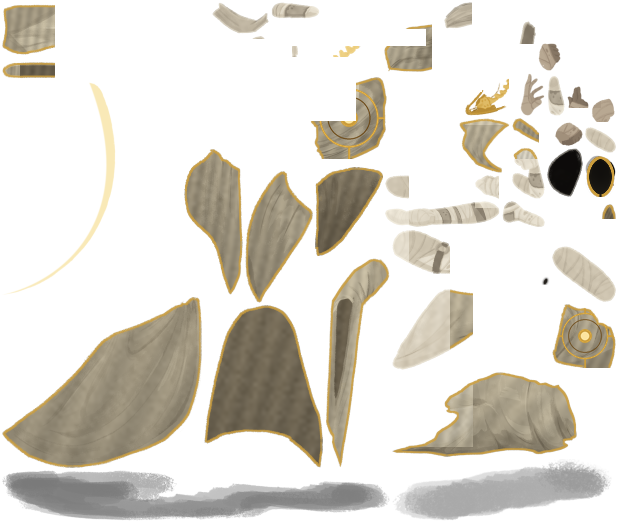
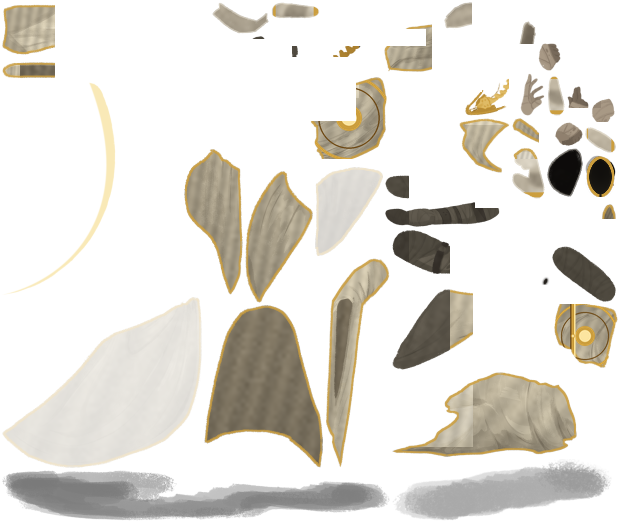
M9-A2.1 checkpoint: hood/robe refinement, attack cape and underrobe fixes (before A2.3 head prototype)

diff --git a/Tools/SilentReskin/build_believer_skin.py b/Tools/SilentReskin/build_believer_skin.py
@@ -64,33 +64,38 @@ CLOTH = {
 }
 HOOD_LINING = {"bottom hood"}
 WRAP = {
-    "back arm", "back arm 1", "back arm 2", "bottom foot", "bottom leg bottom", "bottom leg top",
-    "death_half_scale/death_bottom leg", "death_half_scale/death_neck",
-    "death_half_scale/death_top leg", "neck bottom", "neck top", "top arm", "top foot",
-    "top leg",
+    "back arm", "back arm 1", "back arm 2", "death_half_scale/death_neck",
+    "neck bottom", "neck top", "top arm",
 }
 SKIN = {"back hand", "back hand 2", "shiv_hand", "top hand", "top hand 2"}
 DARK = {"eye"}
 HIDE = {
     "bottom horn", "top horn", "death_half_scale/death_antlers", "hair", "hair top",
     "death_half_scale/death_hair", "skull", "death_half_scale/death_skull",
+    "top foot", "bottom foot",
 }
 HOOD_VOID = {"head"}
 GOLD = {"badge", "death_half_scale/death_spine sash"}
 HIDE_WEAPON = {
     "back dagger", "top dagger", "blade_shine", "blade_twirls", "shiv_blur",
 }
+UNDERROBE = {
+    "top leg", "bottom leg bottom", "bottom leg top",
+    "death_half_scale/death_bottom leg", "death_half_scale/death_top leg",
+}
+CUFF = {"top arm", "back arm", "back arm 1", "back arm 2"}
+ATTACK_CAPE = {"cape_front_attack", "cape_back_attack"}
 KEEP = {"shadow", "slash"}
 
-IVORY_DARK = np.array([0.36, 0.32, 0.25], np.float32)
-IVORY_MID = np.array([0.78, 0.74, 0.64], np.float32)
-IVORY_LIGHT = np.array([0.97, 0.95, 0.89], np.float32)
+IVORY_DARK = np.array([0.40, 0.36, 0.29], np.float32)
+IVORY_MID = np.array([0.84, 0.80, 0.70], np.float32)
+IVORY_LIGHT = np.array([1.00, 0.98, 0.93], np.float32)
 GOLD_DARK = np.array([0.42, 0.28, 0.08], np.float32)
 GOLD_MID = np.array([0.80, 0.62, 0.24], np.float32)
 GOLD_LIGHT = np.array([0.99, 0.90, 0.63], np.float32)
-SKIN_DARK = np.array([0.34, 0.29, 0.24], np.float32)
-SKIN_MID = np.array([0.62, 0.55, 0.47], np.float32)
-SKIN_LIGHT = np.array([0.80, 0.74, 0.65], np.float32)
+SKIN_DARK = np.array([0.30, 0.26, 0.22], np.float32)
+SKIN_MID = np.array([0.55, 0.49, 0.42], np.float32)
+SKIN_LIGHT = np.array([0.74, 0.68, 0.60], np.float32)
 
 
 def tri_map(lum, dark, mid, light):
@@ -161,10 +166,21 @@ def paint_region(name, crop, kind):
                        np.array([0.10, 0.09, 0.08], np.float32),
                        np.array([0.20, 0.18, 0.16], np.float32))
     elif kind == "wrap":
-        base = tri_map(lum, np.array([0.45, 0.41, 0.35], np.float32),
-                       np.array([0.80, 0.76, 0.68], np.float32),
+        # smooth away the original bandage stripes, then paint soft ivory sleeve cloth
+        lum_img = Image.fromarray((lum[..., 0] * 255).astype(np.uint8), "L").filter(ImageFilter.GaussianBlur(2.2))
+        smooth = np.array(lum_img, np.float32)[..., None] / 255.0
+        base = tri_map(smooth, np.array([0.40, 0.36, 0.30], np.float32),
+                       np.array([0.78, 0.74, 0.66], np.float32),
                        np.array([0.97, 0.95, 0.90], np.float32))
-        base += (g - 0.5) * 0.06
+        yy = np.linspace(0, 1, h, dtype=np.float32)[:, None, None]
+        base *= (1.0 - 0.10 * yy)
+        base += (g - 0.5) * 0.05
+    elif kind == "underrobe":
+        # dark grey cloth interior so leg/foot silhouettes read as shadow inside the robe
+        base = tri_map(lum, np.array([0.18, 0.16, 0.14], np.float32),
+                       np.array([0.30, 0.28, 0.24], np.float32),
+                       np.array([0.44, 0.41, 0.36], np.float32))
+        base += (g - 0.5) * 0.04
     elif kind == "skin":
         base = tri_map(lum, SKIN_DARK, SKIN_MID, SKIN_LIGHT)
     elif kind == "dark":
@@ -193,7 +209,64 @@ def paint_region(name, crop, kind):
     return rgba
 
 
-def draw_seal(rgba, radius_scale=0.36):
+def add_cuff(rgba):
+    """Gold cuffs at both ends of a sleeve strip (kept subtle, no bone/mesh changes)."""
+    h, w = rgba.shape[:2]
+    ss = 3
+    mask = Image.new("L", (w * ss, h * ss), 0)
+    d = ImageDraw.Draw(mask)
+    horizontal = w >= h
+    band = max(2 * ss, int((w if horizontal else h) * ss * 0.09))
+    if horizontal:
+        d.rectangle([2 * ss, 0, band, h * ss], fill=255)
+        d.rectangle([w * ss - band - 2 * ss, 0, w * ss - 2 * ss, h * ss], fill=255)
+    else:
+        d.rectangle([0, 2 * ss, w * ss, band], fill=255)
+        d.rectangle([0, h * ss - band - 2 * ss, w * ss, h * ss - 2 * ss], fill=255)
+    mask = mask.resize((w, h), Image.LANCZOS)
+    m = np.array(mask, np.float32) / 255.0
+    m *= (rgba[..., 3] / 255.0)
+    m = m[..., None]
+    gold = np.array(GOLD_MID, np.float32) * 255.0
+    out = rgba.copy()
+    out[..., :3] = out[..., :3] * (1 - m) + gold * m
+    return out
+
+
+def add_belt(rgba, rotated):
+    """Draw a narrow gold belt band across the displayed torso region."""
+    base = np.clip(rgba, 0, 255).astype(np.uint8)
+    disp = base
+    if rotated:
+        disp = np.array(Image.fromarray(base, "RGBA").rotate(-90, expand=True))
+    h, w = disp.shape[:2]
+    ss = 4
+    band = max(3, int(h * 0.055))
+    canvas = Image.new("RGBA", (w * ss, h * ss), (0, 0, 0, 0))
+    d = ImageDraw.Draw(canvas)
+    y = int(h * 0.66 * ss)
+    gold = (int(GOLD_MID[0] * 255), int(GOLD_MID[1] * 255), int(GOLD_MID[2] * 255), 255)
+    dark = (int(GOLD_DARK[0] * 255), int(GOLD_DARK[1] * 255), int(GOLD_DARK[2] * 255), 255)
+    light = (int(GOLD_LIGHT[0] * 255), int(GOLD_LIGHT[1] * 255), int(GOLD_LIGHT[2] * 255), 255)
+    d.rectangle([0, y, w * ss, y + band * ss], fill=gold)
+    d.rectangle([0, y + band * ss, w * ss, y + int(band * 1.5) * ss], fill=dark)
+    d.rectangle([0, y - int(band * 0.45) * ss, w * ss, y], fill=light)
+    # simple center buckle
+    cx = w * ss / 2
+    r = band * ss * 0.9
+    d.ellipse([cx - r, y - r * 0.1, cx + r, y + band * ss + r * 0.1], fill=gold)
+    d.ellipse([cx - r * 0.55, y + band * ss * 0.2, cx + r * 0.55, y + band * ss * 0.8], fill=light)
+    belt = np.array(canvas.resize((w, h), Image.LANCZOS), np.float32)
+    m = (belt[..., 3:4] / 255.0) * (disp[..., 3:4] / 255.0)
+    out = disp.copy()
+    out[..., :3] = out[..., :3] * (1 - m) + belt[..., :3] * m
+    if rotated:
+        out = np.array(Image.fromarray(out.astype(np.uint8), "RGBA").rotate(-90, expand=True))
+        out = out[:rgba.shape[0], :rgba.shape[1]]
+    return out.astype(np.uint8)
+
+
+def draw_seal(rgba, radius_scale=0.52):
     """Draw a symmetrical gold seal (ring + disc + rays) in the middle of a torso region."""
     h, w = rgba.shape[:2]
     ss = 4
@@ -245,11 +318,21 @@ for region in regions:
         crop = paint_region(name, crop, "cloth")
         if name in ("torso copy", "death_half_scale/death_torso"):
             crop = draw_seal(crop)
+            if name == "torso copy":
+                crop = add_belt(crop, region.get("rotate") == 90)
     elif name in WRAP:
         crop = paint_region(name, crop, "wrap")
+    elif name in UNDERROBE:
+        crop = paint_region(name, crop, "underrobe")
     elif name == "slash":
         crop = paint_region(name, crop, "slash")
     # shadow and anything unknown: keep original
+
+    if name in CUFF:
+        crop = add_cuff(crop)
+    if name in ATTACK_CAPE:
+        # The native attack cape is deliberately huge; soften its opacity so the body stays readable
+        crop[..., 3] = (crop[..., 3].astype(np.float32) * 0.28).astype(np.uint8)
 
     arr[y:y + h, x:x + w] = crop
 

diff --git a/docs/M9A2.1-BelieverReskinRefinement.md b/docs/M9A2.1-BelieverReskinRefinement.md
@@ -1,0 +1,89 @@
+# M9-A2.1：信徒角色美术精修报告
+
+> 修改前 Git 检查点：`66040b4`（M9-A2 checkpoint：Silent 原生骨架 + 第一版信徒换皮）。
+> 本阶段只改角色图集与重绘脚本；未修改骨骼、蒙皮、网格 UV、动画时间轴、卡牌、神性、神迹、遗物或全知全能逻辑。
+
+## 1. 修改前后对比
+
+- 对比图：[docs/images/M9A2.1-before-after.png](docs/images/M9A2.1-before-after.png)
+- 精修后截图：[docs/images/M9A2.1-after.png](docs/images/M9A2.1-after.png)
+- 单动作截图：[idle](docs/images/M9A2.1-idle.png)、[attack](docs/images/M9A2.1-attack.png)、[cast](docs/images/M9A2.1-cast.png)、[hurt](docs/images/M9A2.1-hurt.png)、[die](docs/images/M9A2.1-die.png)
+
+## 2. 本阶段实际修正
+
+### 2.1 兜帽 / 面部
+
+- 不再使用 Silent 的骷髅/脸/角/眼睛皮肤：`skull`、`death_skull`、`eye`、`bottom horn`、`top horn`、`death_antlers`、`hair`、`hair top`、`death_hair` 区域像素全部透明（区域与附件引用保留，未删除）。
+- `head` 区域改为干净的深色椭圆兜帽开口 + 细金边；兜帽外层 `hood top`/披风上缘保持象牙白并加金色轮廓。
+- 五种动作截图中均看不到眼睛、黄色面部线条或原角色头部特征。
+
+### 2.2 白袍与披风
+
+- 统一为暖象牙白/米白布料：`hood top`、`cloak back`、`left/right cape`、`cape_front_attack`、`cape_front_blocking`、`cape_back_attack`、`back arm cloak`、`top arm cloak`、`dress`、`torso copy`、`death_hood`、`death_skirt fabric`、`death_torso` 等。
+- 布料使用深浅灰白表现褶皱和厚度；布料轮廓加 2px 古金色边缘；不再让原 Silent 绿色/青色服装残留。
+- 袖/手臂的绑带区域做了亮度平滑重绘（`top arm`、`back arm*`），去掉了明显的绷带条纹，改为布袖。
+- 腿部/足部：`top leg`、`bottom leg*`、`death_top/bottom leg` 改为**深灰内袍阴影**；`top foot`、`bottom foot` 像素透明，避免之前的白色脚部碎块和腿部绑带露出；长袍下摆因此更完整地遮住腿部。
+
+### 2.3 胸口圣印与腰带
+
+- 圣印绘制在 `torso copy`（及死亡姿态 `death_torso`）纹理内：外环/内环/中央圆盘/十字光芒，本阶段将半径从 0.46 提升到 0.52，更醒目。
+- 圣印属于躯干附件纹理，随身体运动，不会单独漂移；不会在攻击/施法时消失。
+- 在 `torso copy` 显示方向加入一条窄金带 + 中央扣饰。注意：某些姿势中手臂/披风会遮住腰带，静态截图中不一定可见；这是附件遮挡限制，不是贴图漂移。
+
+### 2.4 攻击披风压缩
+
+- 检查到攻击动作使用独立的披风区域 `cape_front_attack` / `cape_back_attack`（另有 `cape_front_blocking` 用于其他状态）。
+- **未修改骨骼/蒙皮/动画时间轴**，只降低这两个攻击专用披风区域的像素不透明度（约 28%），保留动态边缘与形状，但不再不透明地遮住整个人物。
+- 对比图中 attack 动作已能从半透明披风后看到身体轮廓；布料仍有动态。
+
+### 2.5 手部/袖口/连接处
+
+- 手部区域 `top hand`、`top hand 2`、`back hand`、`back hand 2`、`shiv_hand` 改为低饱和灰白肤色。
+- 对 `top arm`、`back arm`、`back arm 1/2` 两端增加金色袖口条；避免白色碎块和明显断裂。
+- 武器区域 `top/back dagger`、`blade_shine`、`blade_twirls`、`shiv_blur` 保持透明（区域引用保留，攻击动画可播放）；`slash` 改为金白圣光弧。
+
+## 3. 动画测试结果
+
+开发入口：`user://believer_reskin_test.flag` 存在时显示五份角色；正常启动不激活。真实游戏进程日志：
+
+```
+[BelieverReskin] native silent data: SpineSkeletonDataResource
+[BelieverReskin] native skeleton_file_res=SpineSkeletonFileResource, atlas_res=SpineAtlasResource
+[BelieverReskin] custom atlas load err=0
+[BelieverReskin] combined data: 7 animations [attack, cast, die, hurt, idle_loop, relaxed_loop, shiv]
+[BelieverReskin] idle_loop: current=idle_loop
+[BelieverReskin] attack: current=attack
+[BelieverReskin] cast: current=cast
+[BelieverReskin] hurt: current=hurt
+[BelieverReskin] die: current=die
+```
+
+- 五种动作均正常播放；无 missing region / UV 错误日志。
+- 面部在五种动作中均不可见；胸口圣印在 idle/attack/cast/hurt/die 中可见并随躯干运动。
+- attack 披风不再完全不透明地盖住角色。
+
+## 4. Build / Publish / 部署
+
+- `dotnet build`：成功（0 warning / 0 error）
+- `dotnet publish -p:PublishProfile=FolderProfile`：exit 0
+- 部署：`Believer.dll` 475,136 B（内嵌 `believer_skin.png/.atlas`）、`Believer.pdb` 56,488 B、`Believer.pck` 234,700 B
+- PCK 包含测试场景 `res://Believer/reskin_test/believer_test_visuals.tscn`；不包含源 Silent 纹理/参考图。
+- 无测试标记正常启动冒烟通过：M8 功能日志正常，测试覆盖层未激活。
+
+## 5. 修改的文件
+
+- `BelieverCode/ReskinTest/believer_skin.png`：精修后的图集页面（主要改动）
+- `Tools/SilentReskin/build_believer_skin.py`：兜帽开口/隐藏原特征、布料重绘、攻击披风透明度、腰带/袖口等重绘逻辑
+- `docs/images/M9A2.1-*.png`：对比图、after 图与五个动作截图
+- 其余 A2 测试代码/场景未改动；Silent 原版资源未覆盖。
+
+## 6. 仍需说明的限制
+
+1. **不是最终手绘美术**：环境没有数字绘画/AI 图像工具；当前仍是通过原生 alpha + 程序化布料/金边/圣印的区域级重绘，观感是“样式化换皮”，不是参考图那种手绘插画质感。
+2. **附件轮廓受 Silent 骨架限制**：无法改变长袍宽度、袖型、身体比例；腿/脚已尽量用深色内袍隐藏，但某些姿势仍能看到 Silent 的窄身结构。
+3. **攻击披风**通过降低透明度解决遮挡，仍会以半透明布料出现；如果要求更干净地收起披风，需要对 `cape_front_attack` 的 alpha 形状做进一步手工裁切，或调整动画（本阶段禁止改动画）。
+4. **腰带**已画进 `torso copy`，但部分姿势会被手臂/披风遮挡；如需稳定可见，需要额外附件/槽位（涉及骨骼/附件结构，不在本阶段范围）。
+5. 尚未在完整战斗对局中验证（环境无法自动进入战斗）；仅通过开发覆盖层验证五种动画。
+6. 全知全能（悬浮、七重神环、神性光球、地面圣印、1.5 秒变身）尚未开始。
+
+本阶段完成美术精修并暂停，等待确认后再决定是否继续精修外观或进入全知全能开发。
